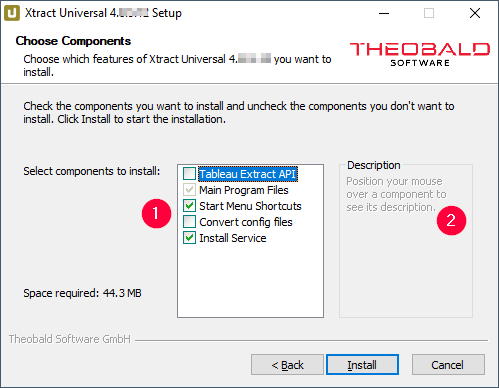
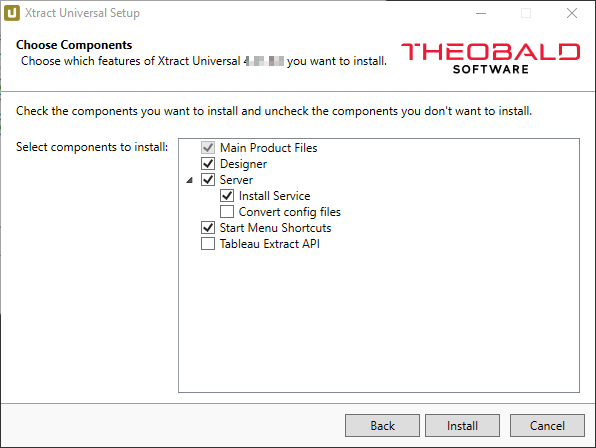
new setup xu

diff --git a/content/_en/xtract-universal/introduction/installation-and-update.md b/content/_en/xtract-universal/introduction/installation-and-update.md
@@ -20,16 +20,20 @@ progressstate: 5
 
 *XtractUniversalSetup.exe* is an industry standard setup.  Execute the *XtractUniversalSetup.exe* file and follow the instructions of the setup.
 
-When starting the setup, components (1) can be selected during the installation. When selecting a component details are displayed in the description field (2).
+When starting the setup, components can be selected during the installation. 
 
 ![XU-Setup](/img/content/xu/XU_Setup_2.png){:class="img-responsive"}
 
 |Component | Description |
 |:----|:---|
+|Main Product Files | All required files to use Xtract Universal |
+|Designer | Installs the Designer application, uncheck the option if you want to use Xtract Universal without the desktop application |
+|Server <br> Install Service <br> Convert config files | Installs the Xtract Universal Server <br> Installs the server component as a windows service. See also section [Start Server](../server/start-server) <br> Converts extractions, sources, destinations, etc. from previous version format to new format. Crucial when installing major releases and upgrading from e.g., version 3.x to 4.x.|
+|Start Menu Shortcuts | Component that adds shortcuts to the start menu.|
 |Tableau Extract API | Component is only required for Tableau destination |
-|Start Menu Shortcut | Component that adds shortcuts to the start menu |
-|Convert Config files | Converts extractions, sources, destinations, etc. from previous version format to new format. Crucial when installing major releases and upgrading from e.g., version 3.x to 4.x.|
-|Install Service | Installs the server component as a windows service. See also section [Start Server](../server/start-server).|
+
+{: .box-note }
+**Note:** Make sure to mark the option “Server > Install Service” during the Installation, as installing a server without the service is only used for development purposes.
 
 The license installation procedure is described in the section [Installing the license](license#installing-the-xtract-universal-license---xtractuniversallicensejson).
 

diff --git a/content/_de/xtract-universal/einfuehrung/installation-und-update.md b/content/_de/xtract-universal/einfuehrung/installation-und-update.md
@@ -27,10 +27,14 @@ Beim Starten des Setups können die optionalen Komponenten (1) für die Installa
 
 |Komponente | Beschreibung |
 |:----|:---|
-|Tableau Extract API | Komponente erforderlich nur für die Tableau Destination |
-|Start Menu Shortcut | Komponente, die dem Startmenü Verknüpfungen hinzufügt |
-|Convert Config files | Konvertiert Extraktionen, Sources (Quellen), Destinationen usw. vom Format der vorherigen Version in das neue Format. Diese Komponente ist entscheidend bei der Installation von Major Releases und Upgrades von z.B. Version 3.x auf 4.x.
-|Install Service | Installiert die Serverkomponente als Windows-Service. Mehr Details im Abschnitt [Server Starten](../server/server-starten).
+|Main Product Files | All required files to use Xtract Universal |
+|Designer | Installs the Designer application, uncheck the option if you want to use Xtract Universal without the desktop application |
+|Server <br> Install Service <br> Convert config files | Installiert Xtract Universal Server <br> Installiert die Serverkomponente als Windows-Service. Mehr Details im Abschnitt [Server Starten](../server/server-starten) <br> Konvertiert Extraktionen, Sources (Quellen), Destinationen usw. vom Format der vorherigen Version in das neue Format. Diese Komponente ist entscheidend bei der Installation von Major Releases und Upgrades von z.B. Version 3.x auf 4.x.|
+|Start Menu Shortcuts | Komponente, die dem Startmenü Verknüpfungen hinzufügt.|
+|Tableau Extract API |  Komponente erforderlich nur für die Tableau Destination |
+
+{: .box-note }
+**Hinweis:** Achten Sie darauf die Option “Server > Install Service” während der Installation. Die Option der Installation vom Server ohne Service dient nur den Entwicklungszwecken.
 
 Die Installationsschritte werden im Abschnitt [Lizenz](./lizenz#installieren-von-xtract-universal-lizenz---xtractuniversallicensejson) beschrieben.
 

diff --git a/_includes/_content/en/xu-specific/advanced-techniques/designer_overview.md b/_includes/_content/en/xu-specific/advanced-techniques/designer_overview.md
@@ -3,7 +3,7 @@ The main window of the Designer consists of three main sections:
 - Main Menu Bar (1)
 - GUI Buttons(2)
 - List of Extractions(3)
-- Staus bar (4)
+- Status bar (4)
 
 ### Main Menu Bar (1)
 
